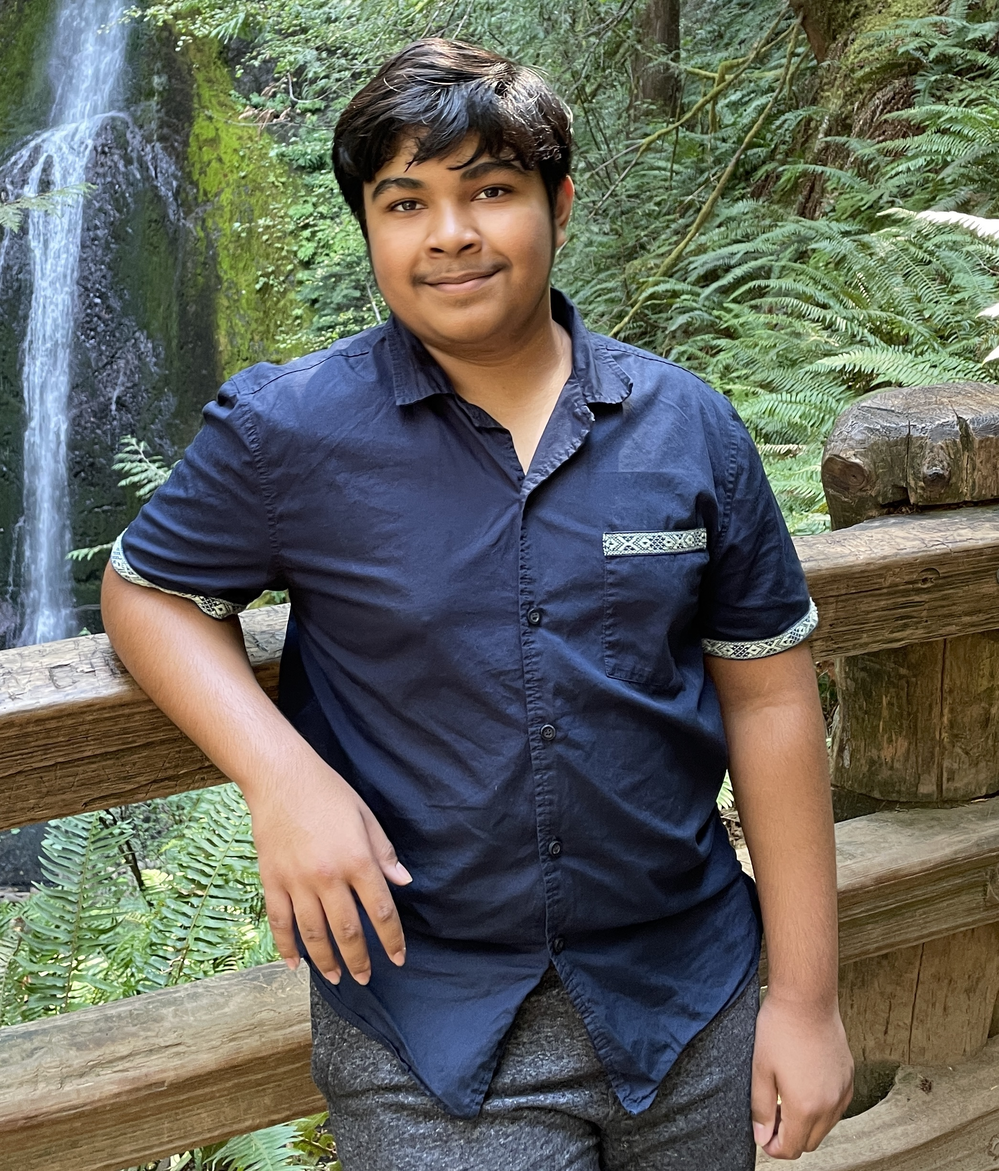
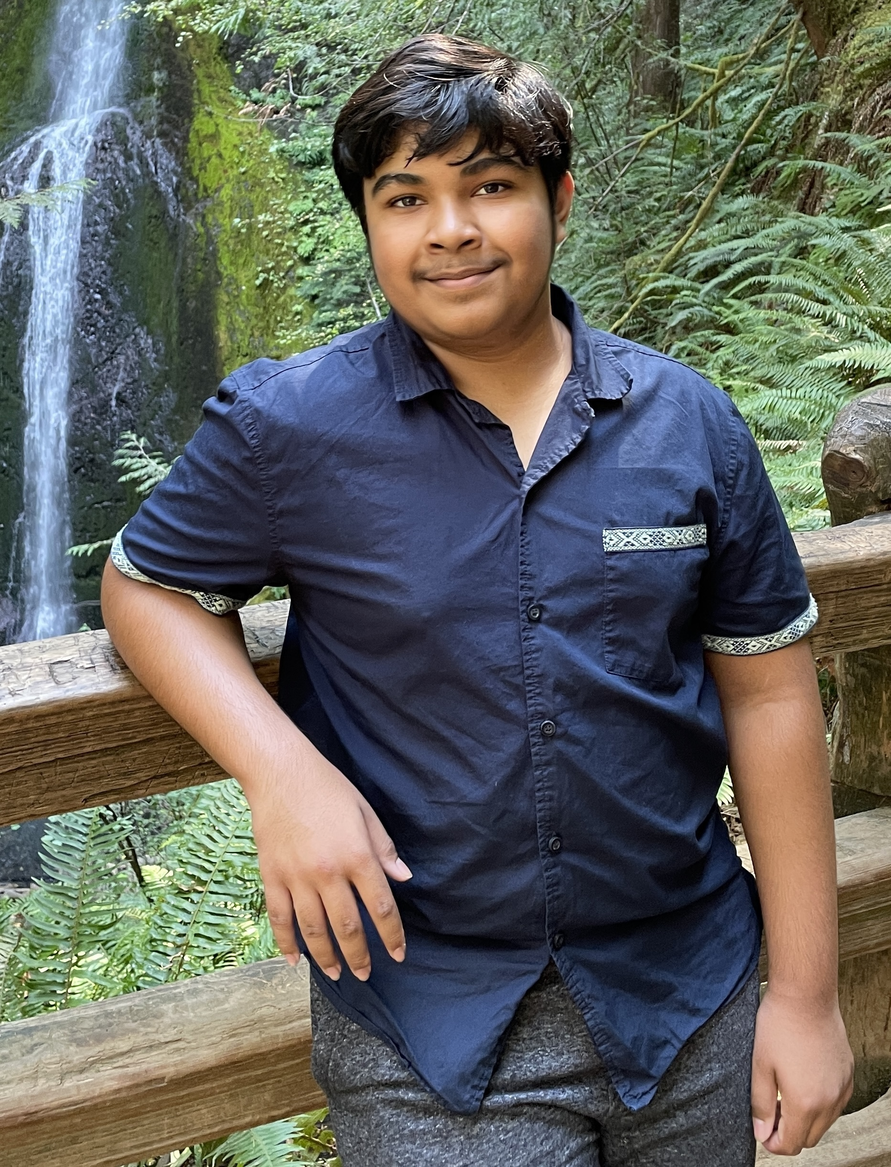
Finished dynamic introdiv

diff --git a/index.html b/index.html
@@ -18,6 +18,7 @@
                 <a href="" class="nav-item">Robotics</a>
                 <a href="" class="nav-item">Science</a>
                 <a href="" class="nav-item">Speech & Debate</a>
+                <a href="" class="nav-item">History</a>
             </div>
             <a href="javascript:void(0);" class="icon" onclick="toggleMenu()">
                 <i class="fa fa-bars"></i>
@@ -28,7 +29,7 @@
             <img src="images/aditya_patnaik_homepage.jpeg">
             <div>
                 <h1>About Me</h1>
-                <p>Hello! I'm Aditya. I'm 14 and I am currently a freshman at Tesla STEM High School. I take Graphic Design, Precalculus, English, AP Computer Science Principles, Entrepreneurship, Engineering, and Honors Physics. In my free time, I enjoy reading, programming, playing Minecraft, and studying geology and chemistry. When I graduate high school, I want to go to university to pursue a career in a field related to computer science, mechanical engineering, or criminal law. For business inquiry, you can contact me at <a href="mailto:aditya.patnaik.email@gmail.com">aditya.patnaik.email@gmail.com</a>.</p>
+                <p>Hello! I'm Aditya. I'm 14 and I am currently a freshman at Tesla STEM High School. I take Graphic Design, Precalculus, English, Computer Science Principles, Entrepreneurship, Engineering, and Honors Physics. In my free time, I enjoy reading, programming, playing Minecraft, and studying geology and chemistry. When I graduate high school, I want to go to university to pursue a career in a field related to computer science, mechanical engineering, or criminal law. For business inquiry, you can contact me at <a href="mailto:aditya.patnaik.email@gmail.com">aditya.patnaik.email@gmail.com</a>.</p>
             </div>
             
         </div>

diff --git a/style.css b/style.css
@@ -12,6 +12,16 @@ body {
     background-color: rgb(173, 208, 237);
 }
 
+p {
+    font-size: 1.5em;
+    font-family: 'Gill Sans', 'Gill Sans MT', Calibri, 'Trebuchet MS', sans-serif;
+}
+
+h1 {
+    font-size: 2.25em;
+    font-family: Arial, Helvetica, sans-serif;
+}
+
 #topnavbar {
     background-color: var(--blue);
     height: auto;
@@ -88,6 +98,15 @@ body {
 }
 
 @media screen and (max-width: 900px) {
+
+    p {
+        font-size: 1em;
+    }
+
+    h1 {
+        font-size: 1.5em;
+    }
+
     #topnavbar a:not(.selected-nav-item) {
         display: none;
     }
@@ -145,14 +164,46 @@ body {
 
 /*End global css */
 
+@media screen and (max-width: 900px) {
+    #introdiv {
+        flex-direction: column;
+    }
+
+    #introdiv img {
+        width: 96vw !important;
+    }
+
+    #introdiv div {
+        width: 96vw !important;
+        margin-right: 2vw;
+        max-width: 600px;
+    }
+}
+
 #introdiv {
     display: flex;
     margin-right: 2vw;
     margin-left: 2vw;
+    margin-top: 2vw;
+    display: flex;
+    align-items: center;
+    justify-content: center;
 }
 
 #introdiv img {
     width: 50vw;
     max-width: 600px;
-    max-height: 58.5vw;
+    height: auto;
+
+}
+
+#introdiv div {
+    margin-left: min(50px, 2vw);
+    width: 44vw;
+}
+
+#introdiv a {
+    color: black;
+    font-family: 'Trebuchet MS', 'Lucida Sans Unicode', 'Lucida Grande', 'Lucida Sans', Arial, sans-serif;
+    font-size: 0.875em;
 }

diff --git a/script.js b/script.js
@@ -1,6 +1,6 @@
 var body = document.getElementById("body")
 var width = body.offsetWidth;
-console.log("The width of the viewport is " + width + " pixels.");
+//console.log("The width of the viewport is " + width + " pixels.");
 
 var navbar = document.getElementById("navbaritems");
 var navitem = document.getElementsByClassName("nav-item");
